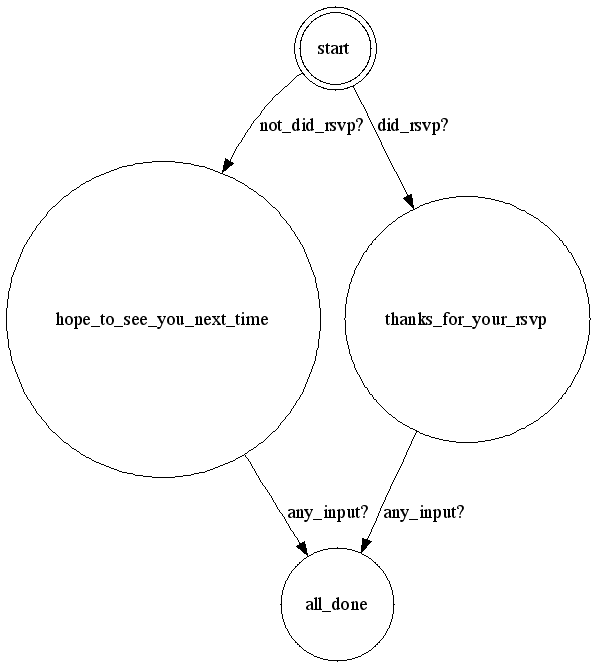
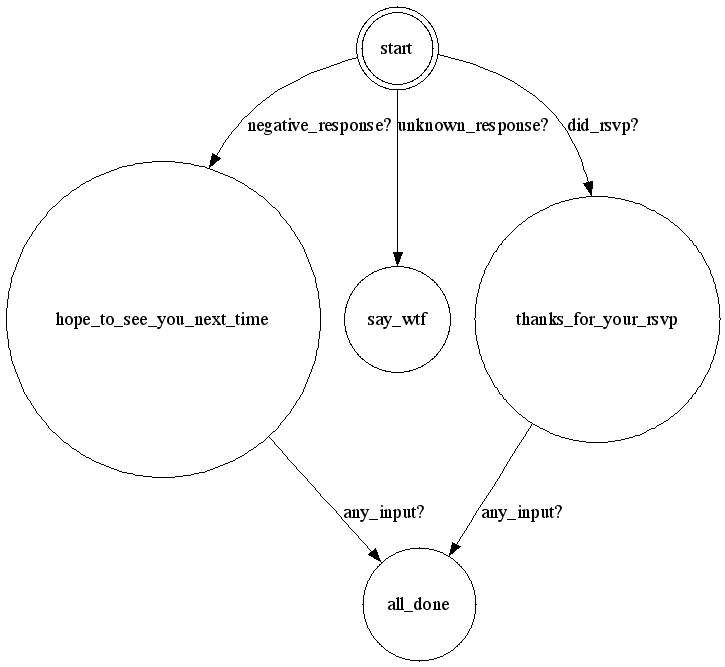
added negative response, and wtf end state

diff --git a/app/ivr_workflows/rsvp.rb b/app/ivr_workflows/rsvp.rb
@@ -8,7 +8,8 @@ class Rsvp < Ivrflow
   define_workflow do
     state :start, :start => true, :on_entry => :entered_start do
       transitions_to :thanks_for_your_rsvp,      :if => :did_rsvp?
-      transitions_to :hope_to_see_you_next_time, :if => :not_did_rsvp?
+      transitions_to :hope_to_see_you_next_time, :if => :negative_response?
+      transitions_to :say_wtf,                   :if => :unknown_response?
     end
 
     state :thanks_for_your_rsvp do
@@ -19,6 +20,7 @@ class Rsvp < Ivrflow
       transitions_to :all_done,      :if => :any_input?
     end
 
+    state :say_wtf,  :stop => true
     state :all_done, :stop => true
   end
 
@@ -26,8 +28,16 @@ class Rsvp < Ivrflow
     sms_body =~ /(?i:yes|ok|go|flugelhorn)/
   end
 
+  def negative_response?
+    sms_body =~ /(?:no|nope|negative|waterfall|saxaphone|java)/
+  end
+
+  def unknown_response?
+    !did_rsvp? && !negative_response?
+  end
+
   message :start do
-    sms "To RSVP, reply with {yes, ok, go, flugelhorn}"
+    sms "To RSVP, reply with {yes, ok, go, flugelhorn}, to Bug out, {no, negative, saxaphone}"
   end
 
   message :thanks_for_your_rsvp do
@@ -40,6 +50,11 @@ class Rsvp < Ivrflow
 
   def any_input?
     sms_body.size > 0
+  end
+
+
+  message :say_wtf do
+    sms "WHY U NO MAKE SENSE?, try again."
   end
 
   message :all_done do
